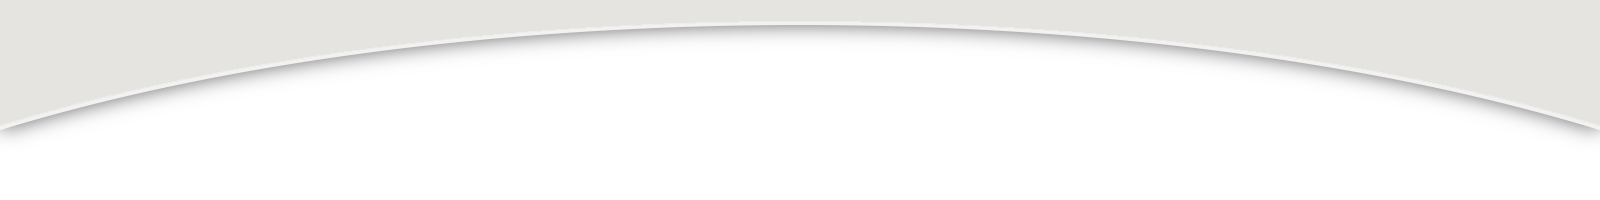
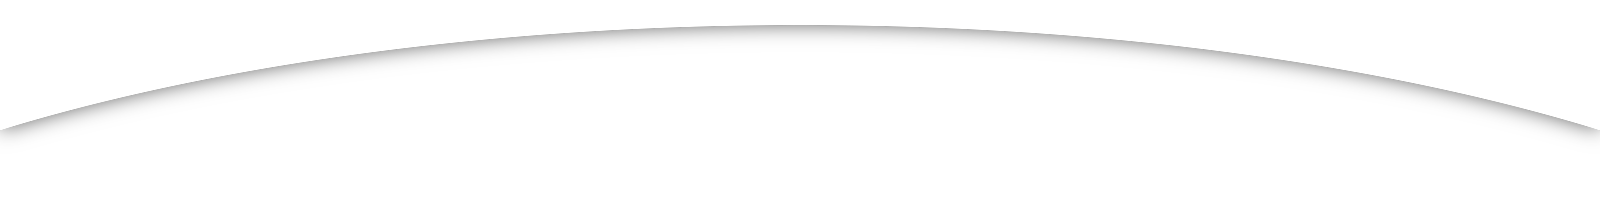
Updated website

Changed region(s): [[0.0, 0.0, 1.0, 0.63]]

diff --git a/web/src/main/webapp/index.html b/web/src/main/webapp/index.html
@@ -17,101 +17,33 @@
                 <div class="portal">
                     <div class="main-text">
                         <div class="text title depth-01">
-                            Village
+                            Ok, Village
                         </div>
 
-                        <div class="text">
-                            A Community of <span id ="doers">Great People</span>
+                        <div class="text blark">
+                            Get some <span id="doers">Great People</span> for my next <span id="activity">Project</span> and bring some <span id="otherthing">Other Thing</span>, too!
                         </div>
                     </div>
 
                     <div class="depth-1 boobs"></div>
-
-                    <div class="badge">
-                        <a target="_blank" href="https://play.google.com/store/apps/details?id=com.queatz.snappy">
-                            <img alt="Get it on Google Play" src="https://developer.android.com/images/brand/en_generic_rgb_wo_60.png" />
-                        </a>
-                    </div>
-                </div>
-
-                <div class="cover">
-                    <div class="seam"></div>
-                    <div class="content headline"><br />We're building a special community just for you.<br /><br /></div>
-                </div>
-            </div>
-
-            <div>
-                <div class="portal screen">
-                    <div class="window">
-                        <div class="mid-text">
-                            <div>
-                                <div>Discover People</div>
-                            </div>
-                        </div>
-                        <div class="depth-1 middletown bg-discover-people"></div>
-                    </div>
                 </div>
 
                 <div class="cover">
                     <div class="seam"></div>
                     <div class="content headline">
-                        <p>Know a little bit about each other and amazing things happen.</p><p>Find the right people to work with you, or connect around a common goal.</p>
-                    </div>
-                </div>
 
-                <div class="seam-top"></div>
-            </div>
-
-            <div>
-                <div class="portal screen">
-                    <div class="window">
-                        <div class="mid-text">
-                            <div>
-                                <div>Advertise Yourself</div>
-                            </div>
-                        </div>
-
-                        <div class="depth-1 middletown bg-advertise-yourself"></div>
-                    </div>
-                </div>
-
-                <div class="cover">
-                    <div class="seam"></div>
-                    <div class="content headline">
-                        <p>Market your talents, network, and knowledge.</p><p>Turn a visit to the zoo into multiple job opportunities.  Define how others interact with you as you go about your day.</p>
-                    </div>
-                </div>
-
-                <div class="seam-top"></div>
-            </div>
-
-            <div>
-                <div class="portal screen">
-                    <div class="window">
-                        <div class="mid-text">
-                            <div>
-                                <div>Upgrade Today</div>
-                            </div>
-                        </div>
-
-                        <div class="depth-1 middletown bg-upgrade-today"></div>
-                    </div>
-                </div>
-
-                <div class="cover">
-                    <div class="seam"></div>
-                    <div class="content headline">
-                        <p>Discover what's happening around you and keep in touch with your community.</p><p>Be surprised.</p>
                         <div class="badge">
                             <a target="_blank" href="https://play.google.com/store/apps/details?id=com.queatz.snappy">
-                                <img alt="Get it on Google Play"
-                                     src="https://developer.android.com/images/brand/en_generic_rgb_wo_60.png" />
+                                <img alt="Get it on Google Play" src="https://developer.android.com/images/brand/en_generic_rgb_wo_60.png" />
                             </a>
+                        </div>
+
+                        <br />See what people have to offer you!<br /><br />
+                        <div id="#offerings">
+
                         </div>
                     </div>
                 </div>
-
-                <div class="seam-top"></div>
             </div>
 
             <div>

diff --git a/web/src/main/webapp/js/app.js b/web/src/main/webapp/js/app.js
@@ -342,6 +342,7 @@ var doers = [
     'Implementation',
     'Adoration',
     'Chaos',
+    'Mwah',
     'Connection',
     'Daintiness',
     'Delights',
@@ -450,38 +451,93 @@ var doers = [
     '???'
 ];
 
-var last = -1;
+var activities = [
+    'Project',
+    'Business',
+    'Adventure',
+    'Event',
+    'Party',
+    'Campaign',
+    'Activity',
+    'Job',
+    'Night Out',
+    'Date',
+    'Brainstorm',
+    'Weekend',
+    'Camping Trip',
+    'Vataction',
+    'Talk',
+    'Move',
+    'Quest',
+    'Chapter',
+    'Thing',
+    'Idea'
+];
 
-function randInt(min, max) {
-    return Math.floor(Math.random() * (max - min + 1)) + min;
-}
+function change(looper, id, what) {
+    var last = -1;
 
-function nextInt(min, max) {
-    var current = last;
-
-    while(last === current) {
-        last = randInt(min, max);
+    var randInt = function (min, max) {
+        return Math.floor(Math.random() * (max - min + 1)) + min;
     }
 
-    return last;
+    var nextInt = function (min, max) {
+        var current = last;
+
+        while(last === current) {
+            last = randInt(min, max);
+        }
+
+        return last;
+    }
+
+    var loop = function () {
+        var color = 'hsl(' + randInt(0, 359) + ', 90%, 50%)';
+
+            var text = $('<span>').text(what[nextInt(0, what.length - 1)].toLowerCase());
+
+            $('#' + id).empty().append(text);
+
+            text.css({color: color, 'text-shadow': '2px 2px 4px black, 0 0 1rem ' + color})
+                .textillate({
+                    minDisplayTime: 3000,
+                    in: { effect: 'bounceInDown', delay: 50, shuffle: true},
+                    out: { effect: 'bounceOutUp', reverse: true, delay: 50, shuffle: true, callback: function () { looper.loop(); } },
+                    loop: true
+                });
+    }
+
+    loop();
+
+    return loop;
 }
 
-function change() {
-    var color = 'hsl(' + randInt(0, 359) + ', 90%, 50%)';
+function loop() {
+    var readyCount = 0;
 
-    var text = $('<span>').text(doers[nextInt(0, doers.length - 1)]);
+    var a = [
+        change(this, 'doers', doers),
+        change(this, 'activity', activities),
+        change(this, 'otherthing', doers)
+    ];
 
-    $('#doers').empty().append(text);
+    var loop = function () {
+        if (readyCount < a.length) {
+            readyCount++;
+            return;
+        }
 
-    text.css({color: color, 'text-shadow': '2px 2px 4px black, 0 0 1rem ' + color})
-        .textillate({
-            minDisplayTime: 1000,
-            in: { effect: 'flipInX', delay: 50},
-            out: { effect: 'flipOutX', reverse: true, delay: 50, callback: function () { change(); } },
-            loop: true
-        });
+        var readyCount = 0;
+
+        for(var b in a) {
+            if (!a.hasOwnProperty(b)) continue;
+
+            b();
+        }
+    };
+
 }
 
 $(function () {
-    change();
+    loop();
 });

diff --git a/web/src/main/webapp/css/app.css b/web/src/main/webapp/css/app.css
@@ -1,12 +1,13 @@
 @import url(https://fonts.googleapis.com/css?family=Poiret+One);
 @import url(https://fonts.googleapis.com/css?family=Palanquin);
+@import url(https://fonts.googleapis.com/css?family=Molengo);
 
 html, body {
     background-color: black;
     margin: 0;
     position: absolute;
     top: 0; left: 0; right: 0; bottom: 0;
-    font-family: "Palanquin", sans;
+    font-family: "Molengo", sans;
 }
 
 a {
@@ -15,16 +16,20 @@ a {
     text-decoration: none;
 }
 
+.b {
+    font-weight: bold;
+}
+
 .hide {
     display: none;
 }
 
-#doers {
+#doerss {
     position: relative;
     text-align: left;
 }
 
-#doers > span {
+#doerss > span {
     position: relative;
     width: 17vw;
     white-space: nowrap;
@@ -109,6 +114,15 @@ a {
     font-size: 3.5vw;
 }
 
+.blark {
+    padding-left: 4vw;
+    padding-right: 4vw;
+}
+
+#doers, #activity, #otherthing {
+    font-size: 5vw;
+}
+
 .end-text {
     top: initial !important;
     bottom: 2.5vw;
@@ -132,7 +146,7 @@ a {
 }
 
 .mid-text > div > div {
-    font-size: 8vw;
+    font-size: 6vw;
 }
 
 .mid-text > div > p {
@@ -160,7 +174,6 @@ a {
 
 .badge {
     text-align: center;
-    margin-top: 4vw;
 }
 
 
@@ -186,7 +199,7 @@ a {
 }
 
 .portal {
-    font-family: "Poiret One", sans;
+    font-family: "Molengo", sans;
 }
 
 .portal > div, .window > div {
@@ -207,7 +220,7 @@ a {
 .content {
     padding: 2rem;
     pointer-events: all;
-    background-color: #e5e4e1;
+    background-color: #fff;
     color: #333;
     z-index: 10;
     font-size: 16pt;
@@ -215,8 +228,8 @@ a {
 }
 
 .headline {
-    font-family: "Poiret One", sans;
-    font-size: 3vw;
+    font-family: "Molengo", sans;
+    font-size: 1.66vw;
     padding-bottom: 3rem;
     padding-left: 15%;
     padding-right: 15%;
